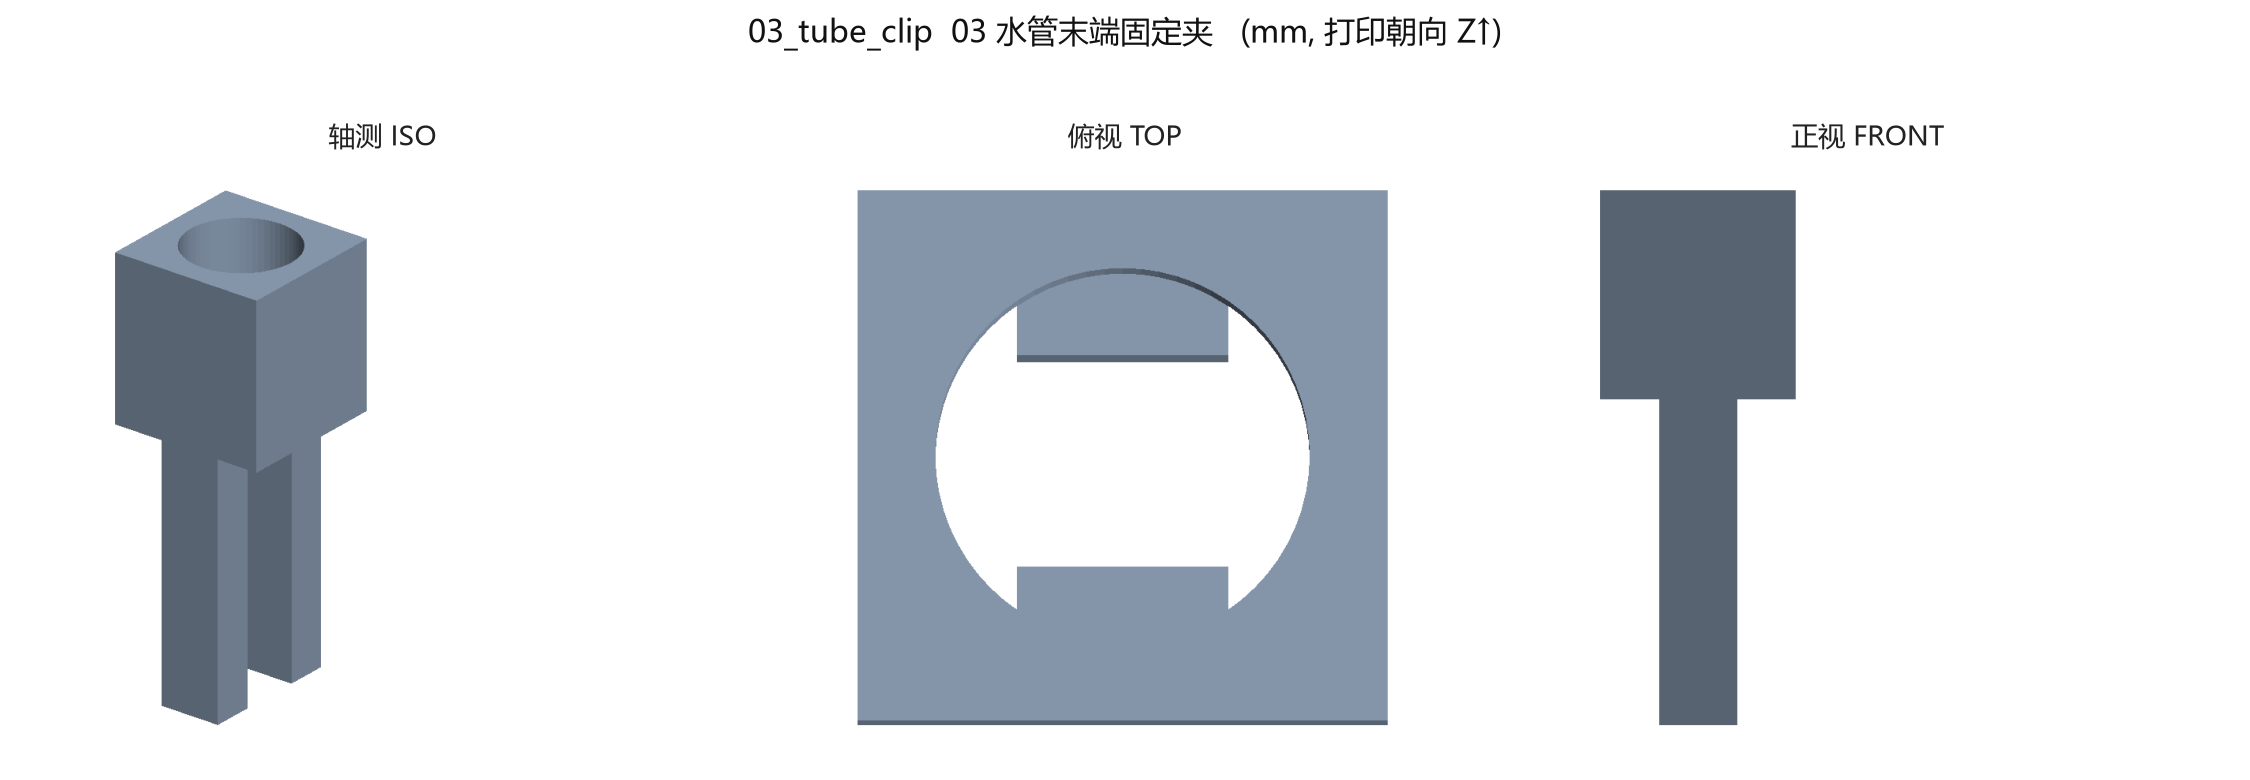
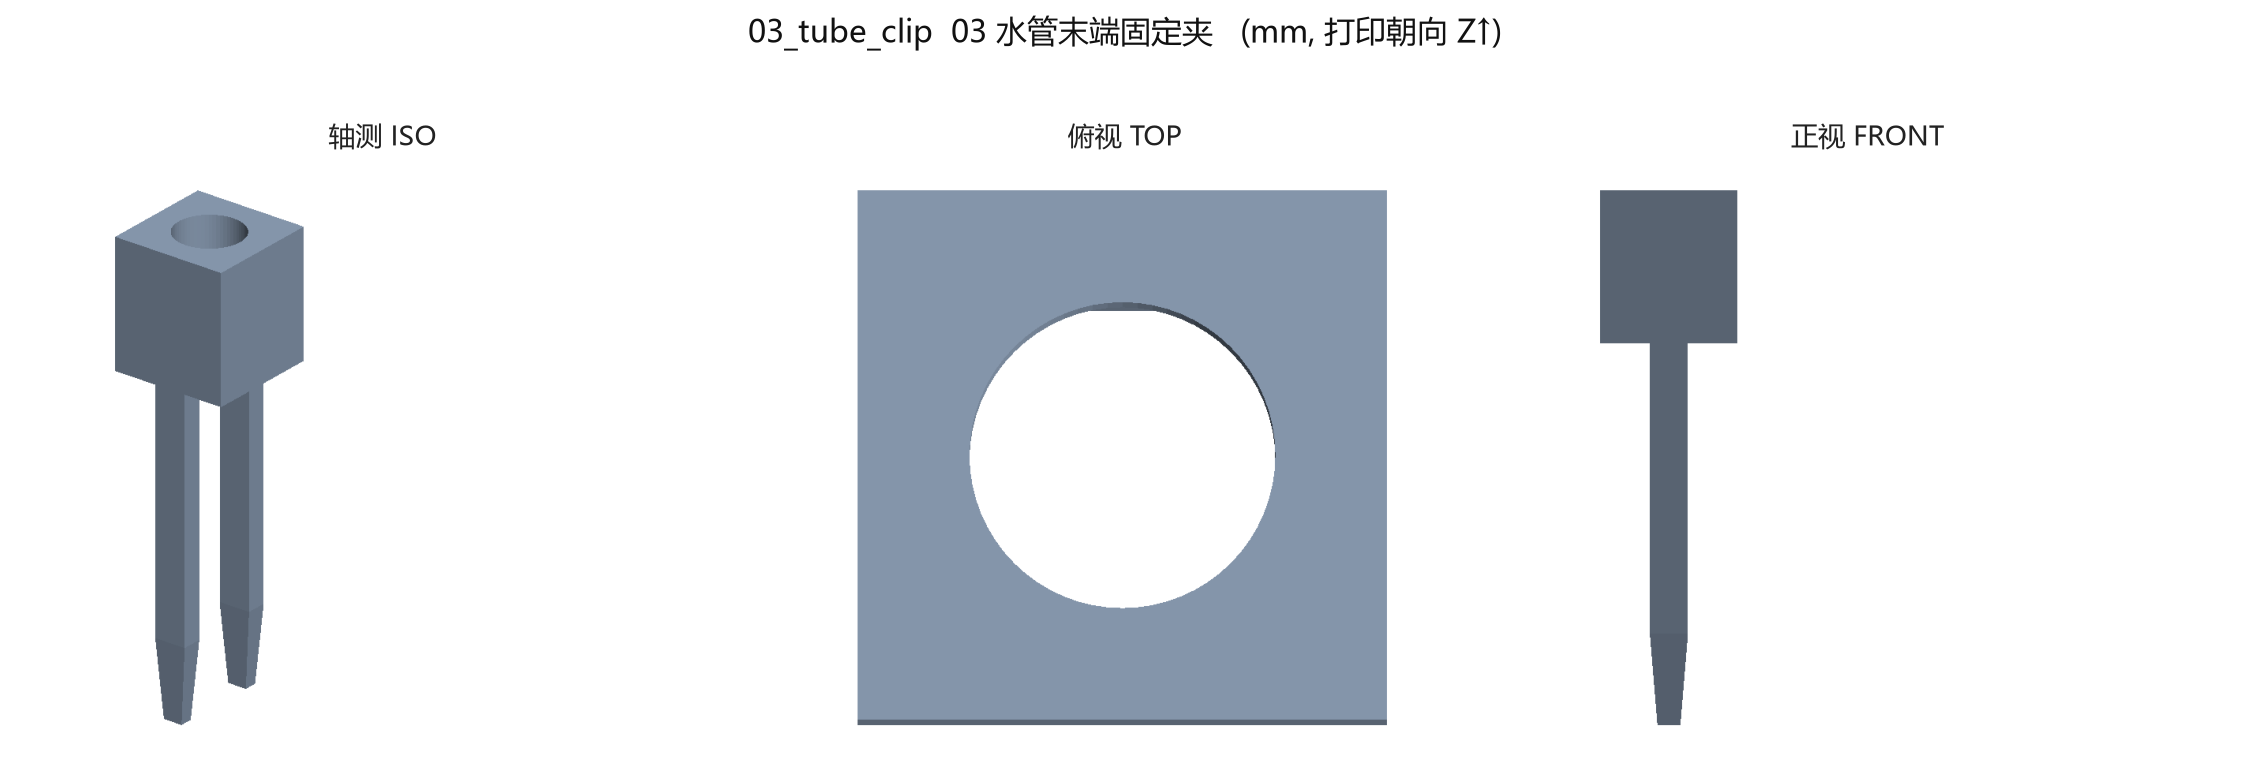
feat: [R1] 03 水管夹改版 v2.1 + 口径收口（记录数 24,533 / 截止 11-27 / 耗材口径）
03 水管夹 v2.1：针改细改长（3.2x5.0、深 50、尖端 12mm 收至 2.0x3.0）、管孔 φ10.6→φ10.4、土面以上 16→20、管环柱 15x15→18x18、针中心 ±5.0→±7.0。

随之修掉既有缺陷：原管孔切割圆柱向下多吃 2mm，把插土针根部削成 1.3mm 薄片；针长 50（力臂翻倍）此处必断。改为从土面 z=0 起切并让针外移到孔半径之外，针身到土面保持完整 3.2x5.0 截面。

新增 _loft_rect() 分层放样（锥形针尖）与 fig_03_dims.py（尺寸图直读参数，不手抄）。
结果 18x18x70 / 7.8 g / watertight / 单体；check_base_fit 全过、audit 零 !!、check_wires 仍既有 5 根基线。

口径收口：24,537 条→24,533 条记录（24,537 是内容行数）；截止日改两个日期分开写（报告 11-27 前交、答辩下周未定）；3D 耗材不再念 338.1 g（那是首版 9 件含已废弃 08），并把 03 克重 4.1→7.8、7 件合计 110→114 g。

config.h 真值未包含（禁提交）。

Changed region(s): [[0.0311, 0.2462, 0.1867, 0.9231], [0.4044, 0.3385, 0.5911, 0.8], [0.6844, 0.2462, 0.8089, 0.9538]]

diff --git a/outputs/3D打印件/花房3D_P0/fig_03_dims.py b/outputs/3D打印件/花房3D_P0/fig_03_dims.py
@@ -1,0 +1,133 @@
+# -*- coding: utf-8 -*-
+"""03 水管末端固定夹 · 带尺寸三视图（数据直接读 p0_models.PARAMS["clip"]，不手抄）
+
+用法： python fig_03_dims.py            # 出 preview/03_尺寸图.png
+"""
+import os
+import matplotlib
+matplotlib.use("Agg")
+import matplotlib.pyplot as plt
+from matplotlib.patches import Rectangle, Circle, Polygon
+
+import p0_models as M
+
+PLT = os.path.dirname(os.path.abspath(__file__))
+plt.rcParams["font.sans-serif"] = ["Microsoft YaHei", "SimHei"]
+plt.rcParams["axes.unicode_minus"] = False
+
+C_COL, C_PIN, C_RED, C_GREY, C_OR = "#c9d3de", "#dfe4ea", "#c0392b", "#7f8c8d", "#e67e22"
+
+
+def dim(ax, x0, y0, x1, y1, t="", off=(0, 0), fs=9, rot=0, color="black"):
+    ax.annotate("", xy=(x0, y0), xytext=(x1, y1),
+                arrowprops=dict(arrowstyle="<->", lw=0.9, color=color))
+    if t:
+        ax.text((x0 + x1) / 2 + off[0], (y0 + y1) / 2 + off[1], t,
+                ha="center", va="center", fontsize=fs, rotation=rot, color=color)
+
+
+def mass_g():
+    """从已出的 STL 现算克重，避免图和件脱节"""
+    import json
+    rep = os.path.join(PLT, "check_report.json")
+    if os.path.exists(rep):
+        with open(rep, encoding="utf-8") as f:
+            for r in json.load(f):
+                if r["name"].startswith("03_tube_clip"):
+                    return r["est_mass_g_PLA"]
+    return float("nan")
+
+
+def main():
+    p = M.PARAMS["clip"]
+    bore_r = p["ring_inner_d"] / 2
+    pt, pw, pd = p["pin_t"], p["pin_w"], p["pin_depth"]
+    tt, tw, tl = p["pin_tip_t"], p["pin_tip_w"], p["pin_tip_len"]
+    px, ch, cx = p["pin_x"], p["col_h"], p["col_x"]
+    cd = p["col_d"]
+    total = pd + ch
+    wall = (cx - p["ring_inner_d"]) / 2
+
+    fig, axs = plt.subplots(1, 3, figsize=(15.0, 7.6), facecolor="white")
+
+    # ================= 正视 X-Z =================
+    ax = axs[0]
+    ax.set_title("正视（X-Z，看针厚）", fontsize=12)
+    for sx in (-1, 1):
+        x = sx * px
+        ax.add_patch(Polygon(
+            [(x - pt / 2, pd), (x + pt / 2, pd), (x + pt / 2, tl),
+             (x + tt / 2, 0), (x - tt / 2, 0), (x - pt / 2, tl)],
+            closed=True, facecolor=C_PIN, edgecolor="#333", lw=0.8))
+    ax.add_patch(Rectangle((-cx / 2, pd), cx, ch, facecolor=C_COL, edgecolor="#333", lw=1))
+    for sx in (-1, 1):
+        ax.plot([sx * bore_r, sx * bore_r], [pd, pd + ch], ls=(0, (3, 2)), color=C_RED, lw=1.2)
+    ax.axhline(pd, color=C_GREY, ls="--", lw=1)
+    ax.text(-cx / 2 - 7.4, pd + 0.9, "土面", fontsize=8.5, color=C_GREY)
+    dim(ax, -cx / 2 - 3.4, 0, -cx / 2 - 3.4, total, "%d" % total, off=(-1.5, 0), rot=90)
+    dim(ax, cx / 2 + 2.2, pd, cx / 2 + 2.2, total, "%d" % ch, off=(1.5, 0))
+    dim(ax, cx / 2 + 2.2, 0, cx / 2 + 2.2, pd, "针 %d" % pd, off=(2.3, 0))
+    ax.annotate("", xy=(cx / 2 + 2.2, 0), xytext=(cx / 2 + 2.2, tl),
+                arrowprops=dict(arrowstyle="<->", lw=1.2, color=C_RED))
+    ax.text(cx / 2 + 4.6, tl / 2, "锥段 %d" % tl, fontsize=8.5, color=C_RED, va="center")
+    ax.text(0, -6.5, "针厚 %.1f（尖端收至 %.1f）" % (pt, tt), ha="center", fontsize=9, color="#444")
+    ax.text(0, total + 4.8, "红线 = 管孔 φ%.1f 隐藏线" % p["ring_inner_d"],
+            ha="center", fontsize=8.5, color=C_RED)
+    ax.set_xlim(-cx / 2 - 11, cx / 2 + 12)
+    ax.set_ylim(-11, total + 10)
+    ax.set_aspect("equal")
+    ax.axis("off")
+
+    # ================= 侧视 Y-Z =================
+    ax = axs[1]
+    ax.set_title("侧视（Y-Z，看针宽）", fontsize=12)
+    ax.add_patch(Polygon(
+        [(-pw / 2, pd), (pw / 2, pd), (pw / 2, tl),
+         (tw / 2, 0), (-tw / 2, 0), (-pw / 2, tl)],
+        closed=True, facecolor=C_PIN, edgecolor="#333", lw=0.8))
+    ax.add_patch(Rectangle((-cd / 2, pd), cd, ch, facecolor=C_COL, edgecolor="#333", lw=1))
+    for sy in (-1, 1):
+        ax.plot([sy * bore_r, sy * bore_r], [pd, pd + ch], ls=(0, (3, 2)), color=C_RED, lw=1.2)
+    ax.axhline(pd, color=C_GREY, ls="--", lw=1)
+    dim(ax, -cd / 2 - 3.4, pd, -cd / 2 - 3.4, total, "%d" % ch, off=(-1.5, 0), rot=90)
+    ax.text(cd / 2 + 2.0, pd + ch / 2, "柱体深 %d" % cd, fontsize=8.5, va="center")
+    dim(ax, -cd / 2, total + 6.5, cd / 2, total + 6.5, "%d" % cd, off=(0, 1.5))
+    ax.text(0, -6.5, "针宽 %.1f（尖端收至 %.1f）" % (pw, tw), ha="center", fontsize=9, color="#444")
+    ax.set_xlim(-cx / 2 - 11, cx / 2 + 12)
+    ax.set_ylim(-11, total + 10)
+    ax.set_aspect("equal")
+    ax.axis("off")
+
+    # ================= 俯视 X-Y =================
+    ax = axs[2]
+    ax.set_title("俯视（X-Y，看管孔）", fontsize=12)
+    ax.add_patch(Rectangle((-cx / 2, -cd / 2), cx, cd, facecolor=C_COL, edgecolor="#333", lw=1))
+    ax.add_patch(Circle((0, 0), bore_r, facecolor="white", edgecolor=C_RED, lw=1.8))
+    for sx in (-1, 1):
+        ax.add_patch(Rectangle((sx * px - pt / 2, -pw / 2), pt, pw,
+                               facecolor="none", edgecolor=C_OR, lw=1.1, ls=(0, (4, 2))))
+        ax.plot([sx * px, sx * px], [cd / 2 + 0.3, cd / 2 + 3.2], ls=":", color="#888", lw=0.8)
+    ax.annotate("", xy=(-bore_r, 0), xytext=(bore_r, 0),
+                arrowprops=dict(arrowstyle="<->", lw=1, color=C_RED))
+    ax.text(0, -2.6, "φ%.1f" % p["ring_inner_d"], ha="center", fontsize=9.5, color=C_RED)
+    dim(ax, -px, cd / 2 + 3.2, px, cd / 2 + 3.2)
+    ax.text(0, cd / 2 + 4.4, "针距 %.1f" % (2 * px), ha="center", fontsize=8.5)
+    ax.text(0, -cd / 2 - 5.4,
+            "柱体 %d×%d · 单边壁厚 %.1f\n橙虚线 = 柱底以下的插土针（完全在管孔外）" % (cx, cd, wall),
+            ha="center", fontsize=8.5, color="#444")
+    lim = cx / 2 + 3.5
+    ax.set_xlim(-lim, lim)
+    ax.set_ylim(-lim - 2.5, lim + 6)
+    ax.set_aspect("equal")
+    ax.axis("off")
+
+    fig.suptitle("03 水管末端固定夹 · 尺寸 v2（%.1f g · PLA · %d×%d×%d）"
+                 % (mass_g(), cx, cd, total), fontsize=13.5)
+    plt.tight_layout(rect=[0, 0, 1, 0.93])
+    out = os.path.join(PLT, "preview", "03_尺寸图.png")
+    plt.savefig(out, dpi=150, facecolor="white")
+    print("saved", out)
+
+
+if __name__ == "__main__":
+    main()

diff --git a/outputs/3D打印件/花房3D_P0/p0_models.py b/outputs/3D打印件/花房3D_P0/p0_models.py
@@ -86,20 +86,26 @@ PARAMS = {
         # ---------- 2026-10-23 改方案 B：土插式（不夹盆沿）----------
         # 与 01b 同理：实盆壁厚 10~20mm 范围太宽，刚性双爪无法覆盖 → 改插土针
         "tube_od": 10.0,         # [2026-10-23 实测] 硅胶管外径 10mm (内径 8.5)
-        "ring_inner_d": 10.6,    # 管孔内径 = 管外径 10 + 0.6
+        "ring_inner_d": 10.4,    # [2026-11-24 改] 原 10.6 → 10.4：单边余量 0.2，插拔顺且不晃
         # 插土针：细长方条，插进土里把管环架高
-        "pin_t": 4.0,            # 针厚（X）—— 窄版
-        "pin_w": 6.0,            # 针宽（Y）
-        "pin_depth": 25.0,       # 插土深度
-        "pin_x": 5.0,            # 针中心 X（±），紧贴管环两侧
+        "pin_t": 3.2,            # [2026-11-24 改] 针厚（X）原 4.0 → 3.2（明显变细，实心 PLA 仍够）
+        "pin_w": 5.0,            # [2026-11-24 改] 针宽（Y）原 6.0 → 5.0
+        "pin_depth": 50.0,       # [2026-11-24 改] 插土深度 原 25 → 50（土层 60~65，余量 10~15）
+        "pin_tip_t": 2.0,        # [2026-11-24 新增] 针尖锥形收尖末端厚 = 2.0（降插入阻力）
+        "pin_tip_w": 3.0,        # [2026-11-24 新增] 针尖锥形收尖末端宽 = 3.0
+        "pin_tip_len": 12.0,     # [2026-11-24 新增] 锥段长度（从针尖往上 12mm 线性收径）
+        "pin_x": 7.0,            # [2026-11-24 改] 针中心 X 原 5.0 → 5.8 → 7.0：针内侧面 5.4，
+                                 #               完全落在管孔外（孔 r=5.2，留 0.2 间隙），
+                                 #               针顶不再从管孔里透出来，根部也是满截面 3.2×5.0
         "pin_y": 0.0,            # 针的 Y 中心
         # 管环：立在土面上方，孔竖直贯穿
-        "ring_rise": 16.0,       # 管孔中心离土面高度（管子出水口要在土面上方）
-        "col_x": 15.0,           # 管环柱宽 X（窄版：孔径10.6 + 两侧壁2.2）→ 占地 15×15
+        "ring_rise": 20.0,       # [2026-11-24 改] 原 16 → 20（出水口离土面更远，少溅泥）
+        "col_x": 18.0,           # [2026-11-24 改] 管环柱宽 X 原 15 → 18（单边壁厚 2.3 → 3.8，
+                                 #               让针能整个挪到管孔外侧，不再从孔里凸出来）
         "col_y": 0.0,            # 管环柱中心 Y
-        "col_d": 15.0,           # 管环柱深 Y
-        "col_h": 16.0,           # 管环柱高
-        "bridge_h": 6.0,         # 顶桥厚
+        "col_d": 18.0,           # [2026-11-24 改] 管环柱深 Y 原 15 → 18
+        "col_h": 20.0,           # [2026-11-24 改] 管环柱高 原 16 → 20
+        "bridge_h": 6.0,         # 顶桥厚（管孔全贯穿，此参数仅留档）
     },
 }
 
@@ -145,6 +151,29 @@ def _prism(pts, axis, a0, a1):
         f.append([i, j, n + j])
         f.append([i, n + j, n + i])
     m = trimesh.Trimesh(vertices=v, faces=np.asarray(f), process=True)
+    m.fix_normals()
+    return m
+
+
+def _loft_rect(cx, cy, levels):
+    """矩形截面沿 Z 分层放样（用于锥形收尖的插土针，单实体、无布尔 → 天然 watertight）。
+
+    levels: [(z, 宽X, 深Y), ...]，按 z 严格递增；相邻层之间线性过渡。
+    """
+    v, nz = [], len(levels)
+    for z, w, d in levels:
+        v += [(cx - w / 2, cy - d / 2, z), (cx + w / 2, cy - d / 2, z),
+              (cx + w / 2, cy + d / 2, z), (cx - w / 2, cy + d / 2, z)]
+    f = [[0, 2, 1], [0, 3, 2]]                                  # 底面（−Z）
+    top = (nz - 1) * 4
+    f += [[top, top + 1, top + 2], [top, top + 2, top + 3]]     # 顶面（+Z）
+    for i in range(nz - 1):
+        a, b = i * 4, (i + 1) * 4
+        for k in range(4):
+            k2 = (k + 1) % 4
+            f += [[a + k, a + k2, b + k2], [a + k, b + k2, b + k]]
+    m = trimesh.Trimesh(vertices=np.asarray(v, dtype=float),
+                        faces=np.asarray(f, dtype=np.int64), process=True)
     m.fix_normals()
     return m
 
@@ -246,9 +275,13 @@ def build_tube_clip(p):
     pt_, pw, pd = p["pin_t"], p["pin_w"], p["pin_depth"]
     ch = p["col_h"]
     ry = p["col_y"]
+    tt, tw = p.get("pin_tip_t", pt_), p.get("pin_tip_w", pw)
+    tl = p.get("pin_tip_len", 0.0)
 
-    # ---- 1) 两条插土针：从 z=-pd 插到 z=0（与管环柱叠合）----
-    pins = [B(sx * p["pin_x"], p["pin_y"], -pd / 2, pt_, pw, pd)
+    # ---- 1) 两条插土针：针尖(z=-pd) 锥形收径 → 针身(pt_×pw) → 顶端 z=+1 嵌入柱体 ----
+    # 顶端做到 +1（完全落在柱体 XY 范围内）是为了让 union 有真实重叠，避免共面接触。
+    pins = [_loft_rect(sx * p["pin_x"], p["pin_y"],
+                       [(-pd, tt, tw), (-pd + tl, pt_, pw), (1.0, pt_, pw)])
             for sx in (-1, 1)]
     body = union(pins, engine="manifold")
 
@@ -265,8 +298,10 @@ def build_tube_clip(p):
     col = B(0, ry, ch / 2, p["col_x"], p["col_d"], ch)
     body = union([body, col], engine="manifold")
 
-    # ---- 3) 管孔：从土面直通柱顶，管子在孔内全程竖直 ----
-    body = cut(body, [C(0, ry, ch / 2, p["ring_inner_d"] / 2, ch + 4, sections=64)])
+    # ---- 3) 管孔：从土面 z=0 直通柱顶，管子在孔内全程竖直 ----
+    # [2026-11-24 修] 原写法 C(0,0,ch/2,r,ch+4) 向下多吃 2mm，把插土针根部削成 1.3mm 薄片。
+    # 现改为 0 → ch+2，针身截面一直到土面都是完整的 3.2×5.0，长针弯矩不再卡在细颈上。
+    body = cut(body, [C(0, ry, ch / 2 + 1.0, p["ring_inner_d"] / 2, ch + 2.0, sections=64)])
 
     # ---- 4) 落床归一化：z_min -> 0；metadata 记录土面高度 ----
     zmin = float(body.bounds[0][2])

diff --git a/docs/报告素材/报告素材包_给R4_2026-11-23.md b/docs/报告素材/报告素材包_给R4_2026-11-23.md
@@ -1,8 +1,8 @@
 # 实验报告素材包（供 R4 撰写使用）
 
-> 整理：2026-11-23 ｜ 数据截止：11-22 18:00（48h 测试全量导出）
+> 整理：2026-11-23 ｜ 数据截止：11-22 18:00（48h 测试全量导出）｜ **2026-11-24 补充：§四 末尾新增三个口径修正，写之前先看**
 > 本文件只提供**事实、数字、图表、结论**，不含成稿正文。R4 可直接引用或改写。
-> ⚠ 所有数字均有实测依据，来源标注在每项后面。
+> ⚠ 所有数字均有实测依据，来源标注在每项后面。**报告截止：2026-11-27（周五）前交**（领导 11-24 告知）。
 
 ---
 
@@ -57,7 +57,7 @@
 |---|---|
 | 测试起止 | 2026-11-19 21:57 → 2026-11-22 18:00（**约 68 小时**，超期运行） |
 | 采样间隔 | 设计 10 秒 |
-| **本地记录总条数** | **24,537 条**（CSV 887 KB） |
+| **本地记录总条数** | **24,533 条记录**（CSV 共 24,537 行 = 24,533 条数据 + 4 条 `#BOOT` 重启标记；887 KB） |
 | 存储介质 | ESP32 LittleFS（分区 1.375 MB） |
 | 供电 | 充电宝（15000 mAh） |
 | 网络 | 自备 CPE（2.4G） |
@@ -82,7 +82,7 @@
 | 环境气湿 | 59% | 80% | — | **单调下降**（79 → 64），环境变干 |
 | 温度 | 24.0℃ | 26.9℃ | — | 稳定 |
 | 状态 | — | — | — | 5,376 条**全部「待命」**（湿度远高于阈值，未触发浇水） |
-| 水位 | — | — | — | 段 2 内 5,376 条**全部「正常」**（全量 24,537 条仅 1 条「低」，在弃用段 4） |
+| 水位 | — | — | — | 段 2 内 5,376 条**全部「正常」**（全量 24,533 条记录仅 1 条「低」，在弃用段 4） |
 
 ### 2.4 数据完整性
 
@@ -157,10 +157,29 @@
 | 项 | 现状 |
 |---|---|
 | 首次全自动浇水视频 | 有（11-13，S1-9.3，86.7 秒） |
-| 3D 打印件清单 | 10 件，8h37m / 338.1g（不含 12 LED 座） |
+| 3D 打印件清单 | 现役 **10 个 STL**（06c ×2，共 11 个实体）。**耗材口径见 ⚠ 下方第 1 条** |
 | 硬件成本 | 自购约 107–136 元 |
 | 小组成员分工 | 见 `docs/花房4人分工方案_2026-10-20.md` v2 |
-| 自评表 | 四人各一份，内容需差异化（PR#24 遗留） |
+| 自评表 | 四人各一份，内容需差异化（PR#24 遗留）——**须组员本人写** |
+
+### ⚠ 2026-11-24 补充：三个口径问题（R4 写之前先看，`口径统一表_2026-11-23.md` 同步有）
+
+**1. 3D 打印耗材不能写"十件实测 338.1 g"**
+338.1 g / 8h37m 是 **2026-10-24 首版 9 件**的切片合计（含已废弃的 08 扎线座、不含 12 LED 座）。之后 01b / 03 / 04 / 06a / 06b 五件改版重打。
+- ✅ 推荐写法："**首版 9 件切片实测约 338 g / 8.6 小时（拓竹 X2D）**"
+- 若被问"现役件用了多少料"：如实答"大件由现场切片，未逐一回填，量级在 300 g 以内"。现役版有实测克重的 7 件合计约 **114 g**（01b 14.5 / **03 7.8** / 04 27.7 / 06c 2.9 / 07 11.2 / 10 44.6 / 11 4.9）；06a / 06b / 12 未回填。**注：03 于 11-24 改版（15×15×41 / 4.1 g → 18×18×70 / 7.8 g）；实验室在手的实物仍是旧版 4.1 g，被问到就按"仓库现版本 7.8 g、手上实物 4.1 g"如实说**
+
+**2. "土壤有效 14.93 小时"要选一种说法并说清**
+14.93 h 是**段 2 的总长度**（5,376 条）。段 2 的**最后 143 条（0.40 h）土壤已锁死 100%**，按 CSV 严格算，土壤读数有效是 **14.54 h**。
+- 写法 A："土壤通道前 **14.5 小时**数据有效"（按读数算，全量曲线图 `S4-12.3-48h全量曲线_四段拼接.png` 标的也是 14.5）
+- 写法 B："土壤有效段 **14.93 小时**（5,376 条）"（按数据段算，AR39 / AR40 用此口径）
+- **同一份报告里不要混用**
+
+**3. "24,537 条"是文件总行数**
+CSV 共 24,537 行 = **24,533 条数据记录 + 4 条 `#BOOT` 重启标记**。写"记录 24,533 条"或"文件 24,537 行（含 4 条重启标记）"都准确；写"24,537 条数据"严格说多算了 4 条。
+
+**4. 图表更新**
+全量长跑曲线（四段拼接、四通道）已出：`outputs/素材/素材整理_2026-11-22/S4-12.3-48h全量曲线_四段拼接.png`，比 §五 里的三张分段图更适合放 Tabulated Data。整机装配实拍 9 张在 `outputs/素材/素材整理_2026-11-24/`。
 
 ---
 
@@ -187,7 +206,7 @@
 | 11-18 | 五传感器整机复验通过，浮球极性三测定稿 |
 | **11-19 21:57** | **48h 连续运行测试起表** |
 | 11-20 12:00 | 土壤通道失效（面包板 GND 轨） |
-| 11-22 | 全量数据导出（24,537 条），故障定位并修复，v1.9 定稿 |
+| 11-22 | 全量数据导出（24,533 条记录），故障定位并修复，v1.9 定稿 |
 | 11-24 | 提交截止 |
 
 ---

diff --git a/docs/index.md b/docs/index.md
@@ -78,7 +78,7 @@
 | AR36 | **底盘槽口 bug + 布局重排**：嵌槽口 X/Y 共用变量致方口 → 直口定稿；06c 沉槽深 1mm 修正（2026-11-12） | `docs/审计报告/AR36_GreenHouse_底盘槽口bug与布局重排_2026-11-12.md` |
 | AR37 | **27 项返工事故复盘**：五律（一手/单写者/编码/护栏/…）沉淀（2026-11-16） | `docs/审计报告/AR37_*` |
 | AR38 | **固件三轮审计 + 本地记录方案**：15 项问题（6 严重/6 中等/3 轻微），LittleFS 落盘（因免费版无历史 API，2026-11-19） | `docs/审计报告/AR38_固件三轮审计与本地记录方案_2026-11-19.md` |
-| AR39 | **48h 测试数据分析（含全量 24,537 条）**：光照暗态饱和 75.7% / 土壤无温度补偿 / ADC 尖峰 28 次（0.52%，14.93h 有效段；早期 13.4h 窗口为 27 次）固定相位 / 土壤通道 11-20 12:00 后锁死（面包板 GND 轨）（2026-11-20 初版 + 11-21 补第九节） | `docs/审计报告/AR39_48h测试前13.4h数据分析_2026-11-20.md` |
+| AR39 | **48h 测试数据分析（含全量 24,533 条记录）**：光照暗态饱和 75.7% / 土壤无温度补偿 / ADC 尖峰 28 次（0.52%，14.93h 有效段；早期 13.4h 窗口为 27 次）固定相位 / 土壤通道 11-20 12:00 后锁死（面包板 GND 轨）（2026-11-20 初版 + 11-21 补第九节） | `docs/审计报告/AR39_48h测试前13.4h数据分析_2026-11-20.md` |
 | AR40 | **综合审计（全量）**：安全/代码/架构/依赖/文档一致性六维；裁定"连续 68h"不成立（应为累计 68h、最长单段 53.12h）（2026-11-23） | `docs/审计报告/AR40_花房项目_审计报告_2026-11-23.md` |
 | AR41 | **巴法云 App「光照恒显示 0」修复**：根因为详情页 `标签#值` 两两配对规则，定稿 `土壤#值#光照#值#…` 无前导 `#`；同批修复采集脚本 parse()（2026-11-23） | `docs/审计报告/AR41_花房项目_修复报告_2026-11-23.md` |
 

diff --git a/docs/报告素材/口径统一表_2026-11-23.md b/docs/报告素材/口径统一表_2026-11-23.md
@@ -23,7 +23,7 @@
 
 | 说法 | 准确表述 | 说明 |
 |---|---|---|
-| **24,537 条** | "本地导出 24,537 条" | 实际记录（含 3 次重启的 4 个数据段） |
+| **24,537 条** | "本地导出 **24,533 条记录**" 或 "**24,537 行**（含 4 条 `#BOOT` 重启标记）" | 2026-11-24 回查 CSV：24,537 是文件总行数，数据记录是 24,533 条。写"24,537 条数据"严格说多算 4 条，量级无影响但可被证伪 |
 | **17,280 条** | "**48h 理论值** 17,280 条" | 48h × 3600 / 10s 的理论计算值 |
 | **5,376 条** | "土壤有效段 5,376 条" | 对应 14.93h |
 | **19,122 条** | "失效段 19,122 条" | 对应 53.12h，土壤恒 100% |
@@ -104,7 +104,7 @@ AR39 正文的 27 次基于早期 13.4h 窗口，**引用时注明窗口**或直
 | "土壤湿度 100%" | "读数锁死在量程端点（≠ 真实含水量）" | 100% 是钳位值 |
 | "系统支持 OTA" | "预留 OTA 路径，未实施" | 没做过不能写 |
 | "连续运行 68 小时" | "累计运行约 68 小时，跨 3 次重启，最长单段连续 53.12h" | CSV 有 4 个 `#BOOT`，"连续"可被证伪 |
-| "水位全程/全部正常" | "有效段（5,376 条）水位全部正常" | 全量 24,537 条中 1 条「低」（弃用段 4，修板瞬间）——全称表述会被反例戳破 |
+| "水位全程/全部正常" | "有效段（5,376 条）水位全部正常" | 全量 24,533 条记录中 1 条「低」（弃用段 4，修板瞬间）——全称表述会被反例戳破 |
 | "48h 内自动浇水 N 次" | "未触发（湿度始终高于阈值）" | 实际一次没浇 |
 
 ---
